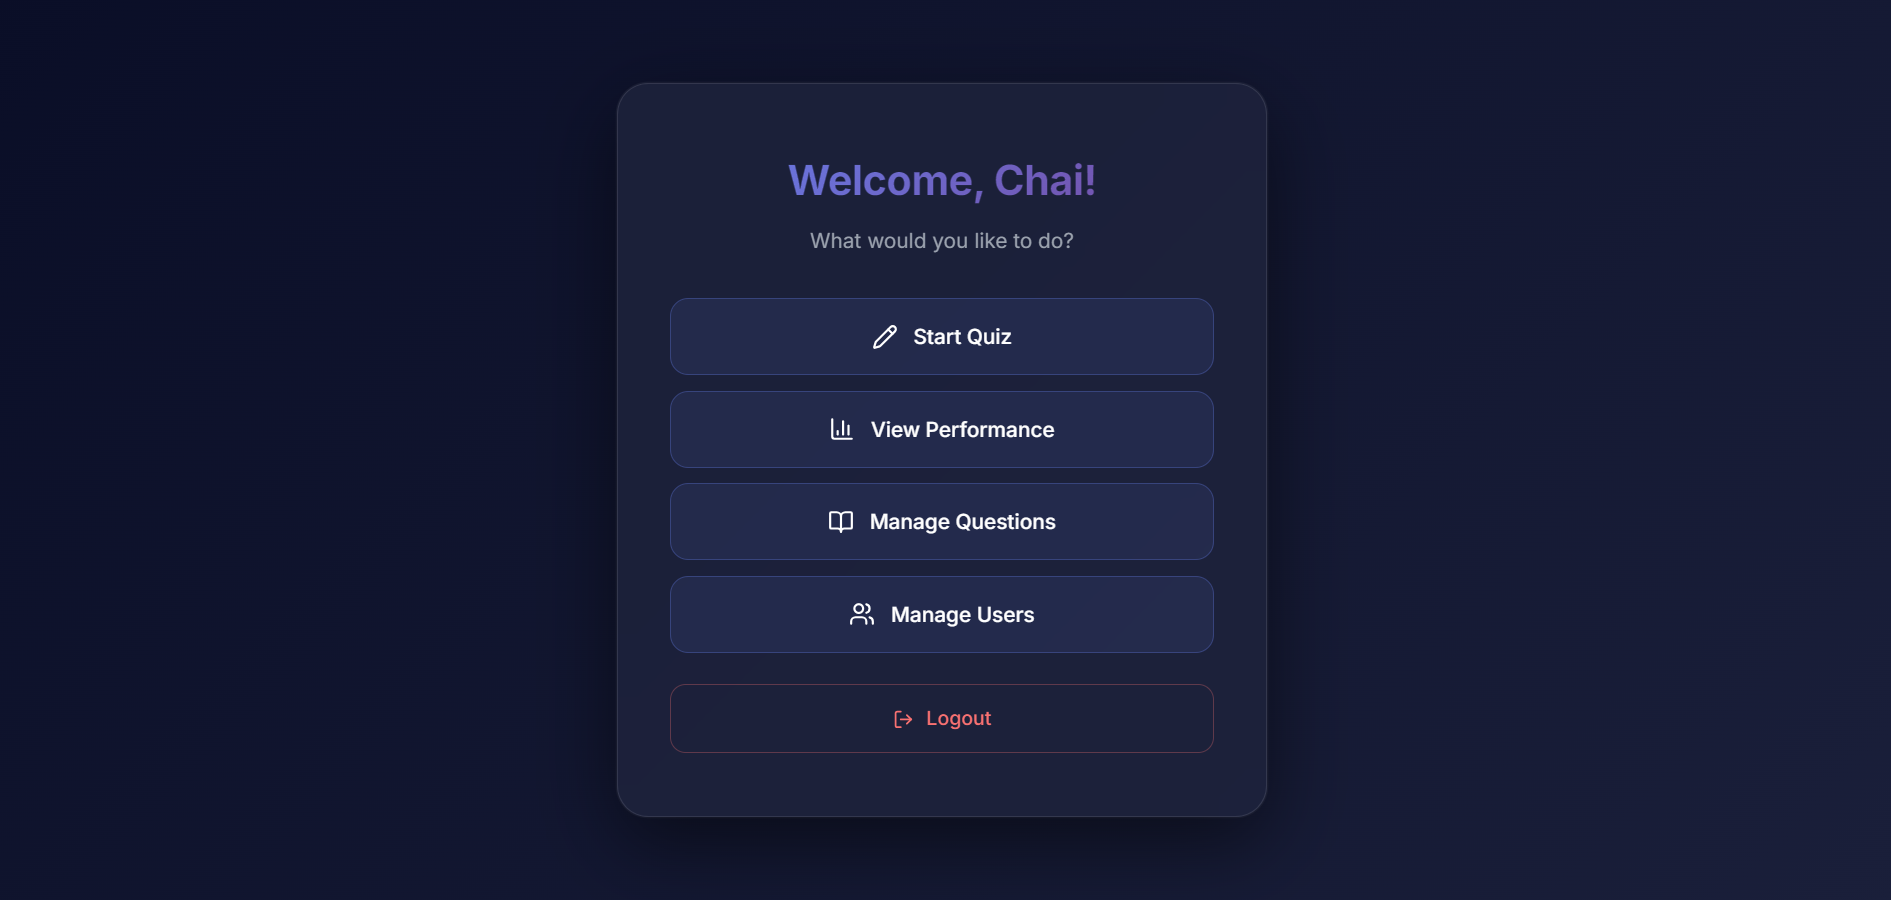
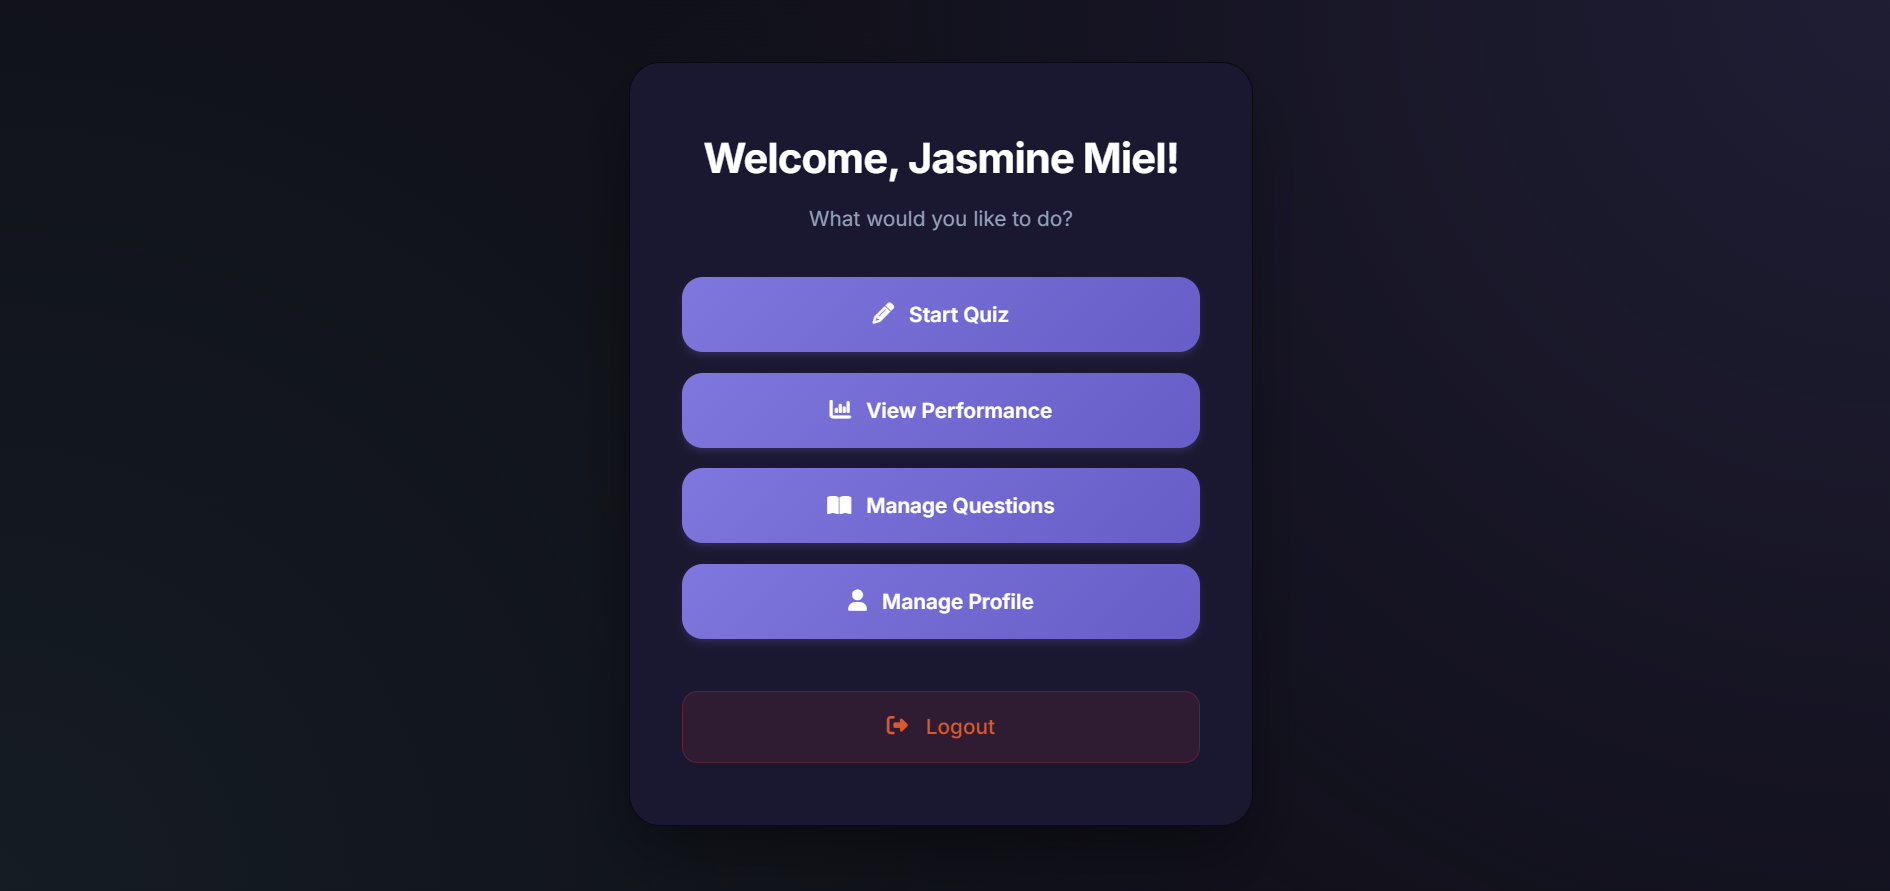
feat: add tech stack to 3s project

diff --git a/src/components/Skills.jsx b/src/components/Skills.jsx
@@ -6,15 +6,10 @@ const skillCategories = [
       { name: "CSS3",         logo: "https://cdn.jsdelivr.net/gh/devicons/devicon/icons/css3/css3-original.svg" },
       { name: "JavaScript",   logo: "https://cdn.jsdelivr.net/gh/devicons/devicon/icons/javascript/javascript-original.svg" },
       { name: "TypeScript",   logo: "https://cdn.jsdelivr.net/gh/devicons/devicon/icons/typescript/typescript-original.svg" },
-      { name: "React JS",     logo: "https://cdn.jsdelivr.net/gh/devicons/devicon/icons/react/react-original.svg" },
+      { name: "React",     logo: "https://cdn.jsdelivr.net/gh/devicons/devicon/icons/react/react-original.svg" },
       { name: "Tailwind CSS", logo: "https://cdn.jsdelivr.net/gh/devicons/devicon/icons/tailwindcss/tailwindcss-original.svg" },
-    ],
-  },
-  {
-    label: "Mobile Stack",
-    skills: [
-      { name: "React Native", logo: "https://cdn.jsdelivr.net/gh/devicons/devicon/icons/react/react-original.svg" },
       { name: "NativeWind",   logo: "https://cdn.jsdelivr.net/gh/devicons/devicon/icons/tailwindcss/tailwindcss-original.svg" },
+
     ],
   },
   {

diff --git a/src/components/Projects.jsx b/src/components/Projects.jsx
@@ -6,8 +6,7 @@ const systemsProjects = [
     desc: "A cross-platform barangay services app with an AI sentiment analysis — I led the team and built both the front-end and back-end.",
     tech: [
       { label: <><i className="fa-brands fa-js mr-1" style={{color:"#F7DF1E"}}></i>JavaScript</>, cls: "ts-javascript" },
-      { label: <><i className="fa-brands fa-react mr-1" style={{color:"#61DAFB"}}></i>React.js</>, cls: "ts-react" },
-      { label: <><i className="fa-brands fa-react mr-1" style={{color:"#61DAFB"}}></i>React Native</>, cls: "ts-react" },
+      { label: <><i className="fa-brands fa-react mr-1" style={{color:"#61DAFB"}}></i>React</>, cls: "ts-react" },
       { label: <><i className="fa-brands fa-square-js mr-1" style={{color:"#3178C6"}}></i>TypeScript</>, cls: "ts-typescript" },
       { label: <><i className="fa-solid fa-fire mr-1" style={{color:"#FFCA28"}}></i>Firebase</>, cls: "ts-firebase" },
       { label: <><i className="fa-solid fa-wind mr-1" style={{color:"#38BDF8"}}></i>Tailwind</>, cls: "ts-tailwind" },

diff --git a/index.html b/index.html
@@ -2,9 +2,9 @@
 <html lang="en">
   <head>
     <meta charset="UTF-8" />
-    <link rel="icon" type="image/svg+xml" href="/favicon.svg" />
+    <link rel="icon" type="image/jpeg" href="/assets/hero-pic.jpg" />
     <meta name="viewport" content="width=device-width, initial-scale=1.0" />
-    <title>my-portfolio</title>
+    <title>Jasmine Aguilar | Portfolio</title>
     <link rel="stylesheet" href="https://cdnjs.cloudflare.com/ajax/libs/font-awesome/6.5.2/css/all.min.css" integrity="sha512-SnH5WK+bZxgPHs44uWIX+LLJAJ9/2PkPKZ5QiAj6Ta86w+fsb2TkcmfRyVX3pBnMFcV7oQPJkl9QevSCWr3W6A==" crossorigin="anonymous" referrerpolicy="no-referrer" />
   </head>
   <body>

diff --git a/src/components/Certifications.jsx b/src/components/Certifications.jsx
@@ -16,8 +16,8 @@ const certs = [
   },
   {
     img: "/assets/seminar.jpg", alt: "Google I/O",
-    title: "Google I/O Extended", issuer: "GDG Manila — July 2024",
-    desc: "Web & mobile tech, cloud tools, and AI development practices. Accenture Uptown BGC.",
+    title: "Google I/O Extended", issuer: "Google Developer Groups (GDG) Manila | July 2024",
+    desc: "Attended tech seminar covering web & mobile technologies, cloud tools, and AI development practices at Accenture Uptown BGC, Taguig.",
   },
 ];
 
